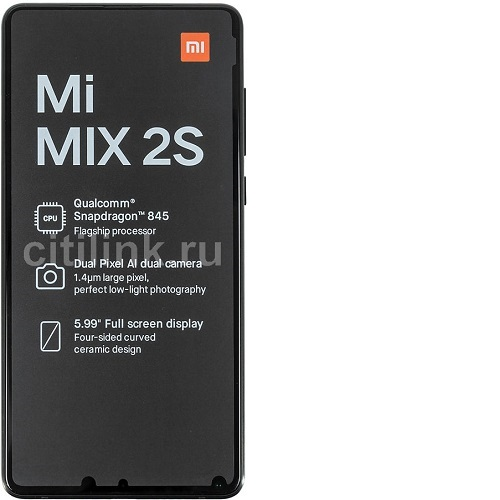
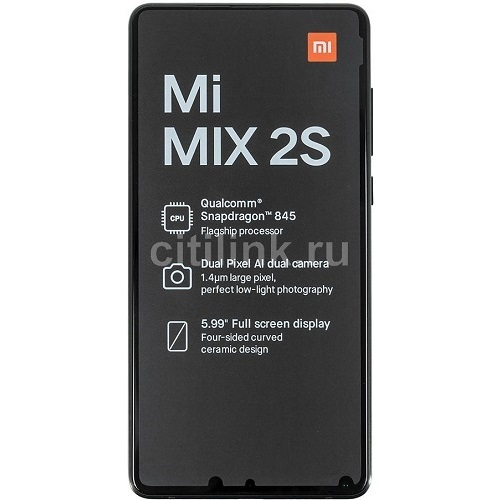
изменил фотки

diff --git a/just_store/templates/product.html b/just_store/templates/product.html
@@ -1,5 +1,5 @@
 {% extends "base.html" %}
-{% load static filters %}
+{% load static %}
 
 {% block title %}Просто магазин / {{ current_section }}{% endblock %}
 
@@ -10,7 +10,7 @@
         <div class="row">
             <div class="col-md-12">
                 <h2>{{ product.title }}</h2>
-                <img src="{% static 'img/' %}{{ product.picture }}" width="120">
+                <img src="{% static 'img/' %}{{ product.picture }}" width="300">
                 <p>{{ product.description }}</p>
                 <form method="post" action="./cart/">
                     <input type="hidden" name="csrfmiddlewaretoken"
